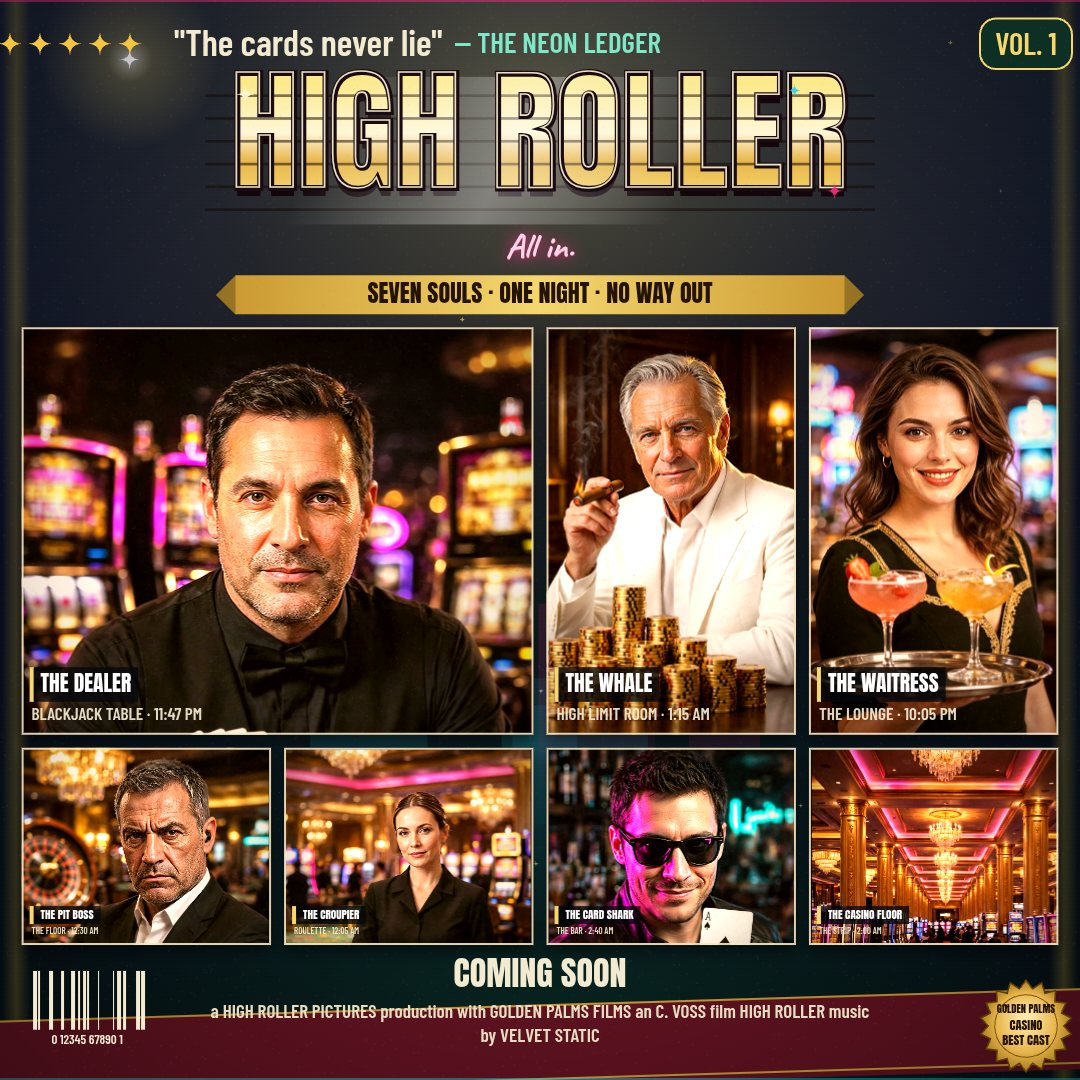
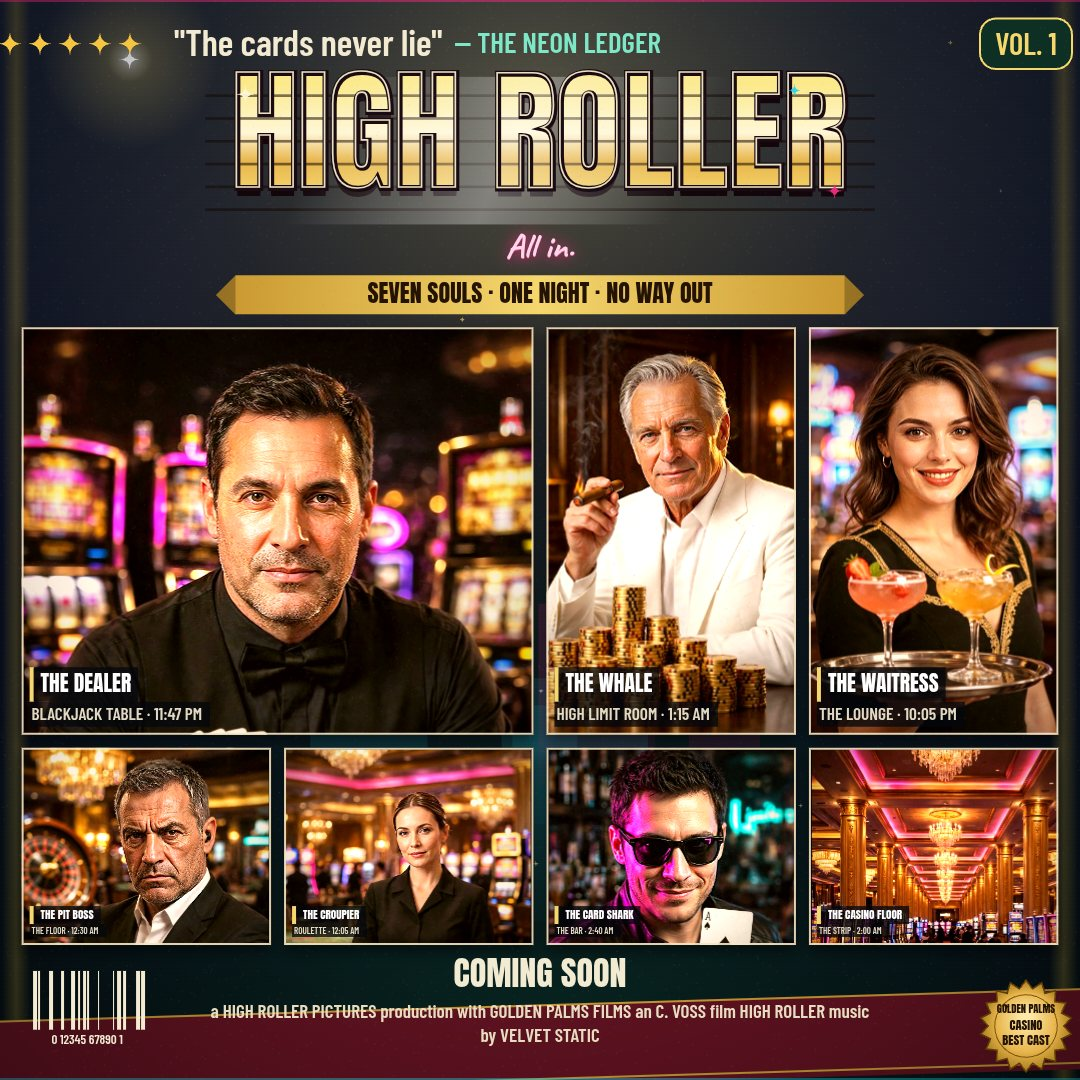
HIGH ROLLER: Casino Night Cover Studio (6 layouts, 6 casino grades, face finder, export 1080/1350/1920)

diff --git a/app/src/lettering.js b/app/src/lettering.js
@@ -339,10 +339,14 @@ export function drawCastTag(ctx, panel, tag, sub, u) {
   ctx.textAlign = 'left';
   ctx.textBaseline = 'middle';
   ctx.fillText(tag, x + pad + 11 * u, ty + tagH / 2 + 1);
-  // Micro-story line under the tag.
+  // Micro-story line under the tag, on its own dark scrim so it stays
+  // readable over bright photo content (card fans, chip stacks).
   if (sub) {
     const sp = fitFont(ctx, sub, '"Barlow Condensed", sans-serif', '600', w * 0.92, tagH * 0.5);
     ctx.font = `600 ${sp}px "Barlow Condensed", sans-serif`;
+    const sw = ctx.measureText(sub).width;
+    ctx.fillStyle = 'rgba(4,6,12,0.78)';
+    ctx.fillRect(x + pad, ty + tagH, sw + 10 * u, tagH * 0.72);
     ctx.fillStyle = 'rgba(243,234,210,0.92)';
     ctx.fillText(sub, x + pad + 2 * u, ty + tagH + tagH * 0.36);
   }
